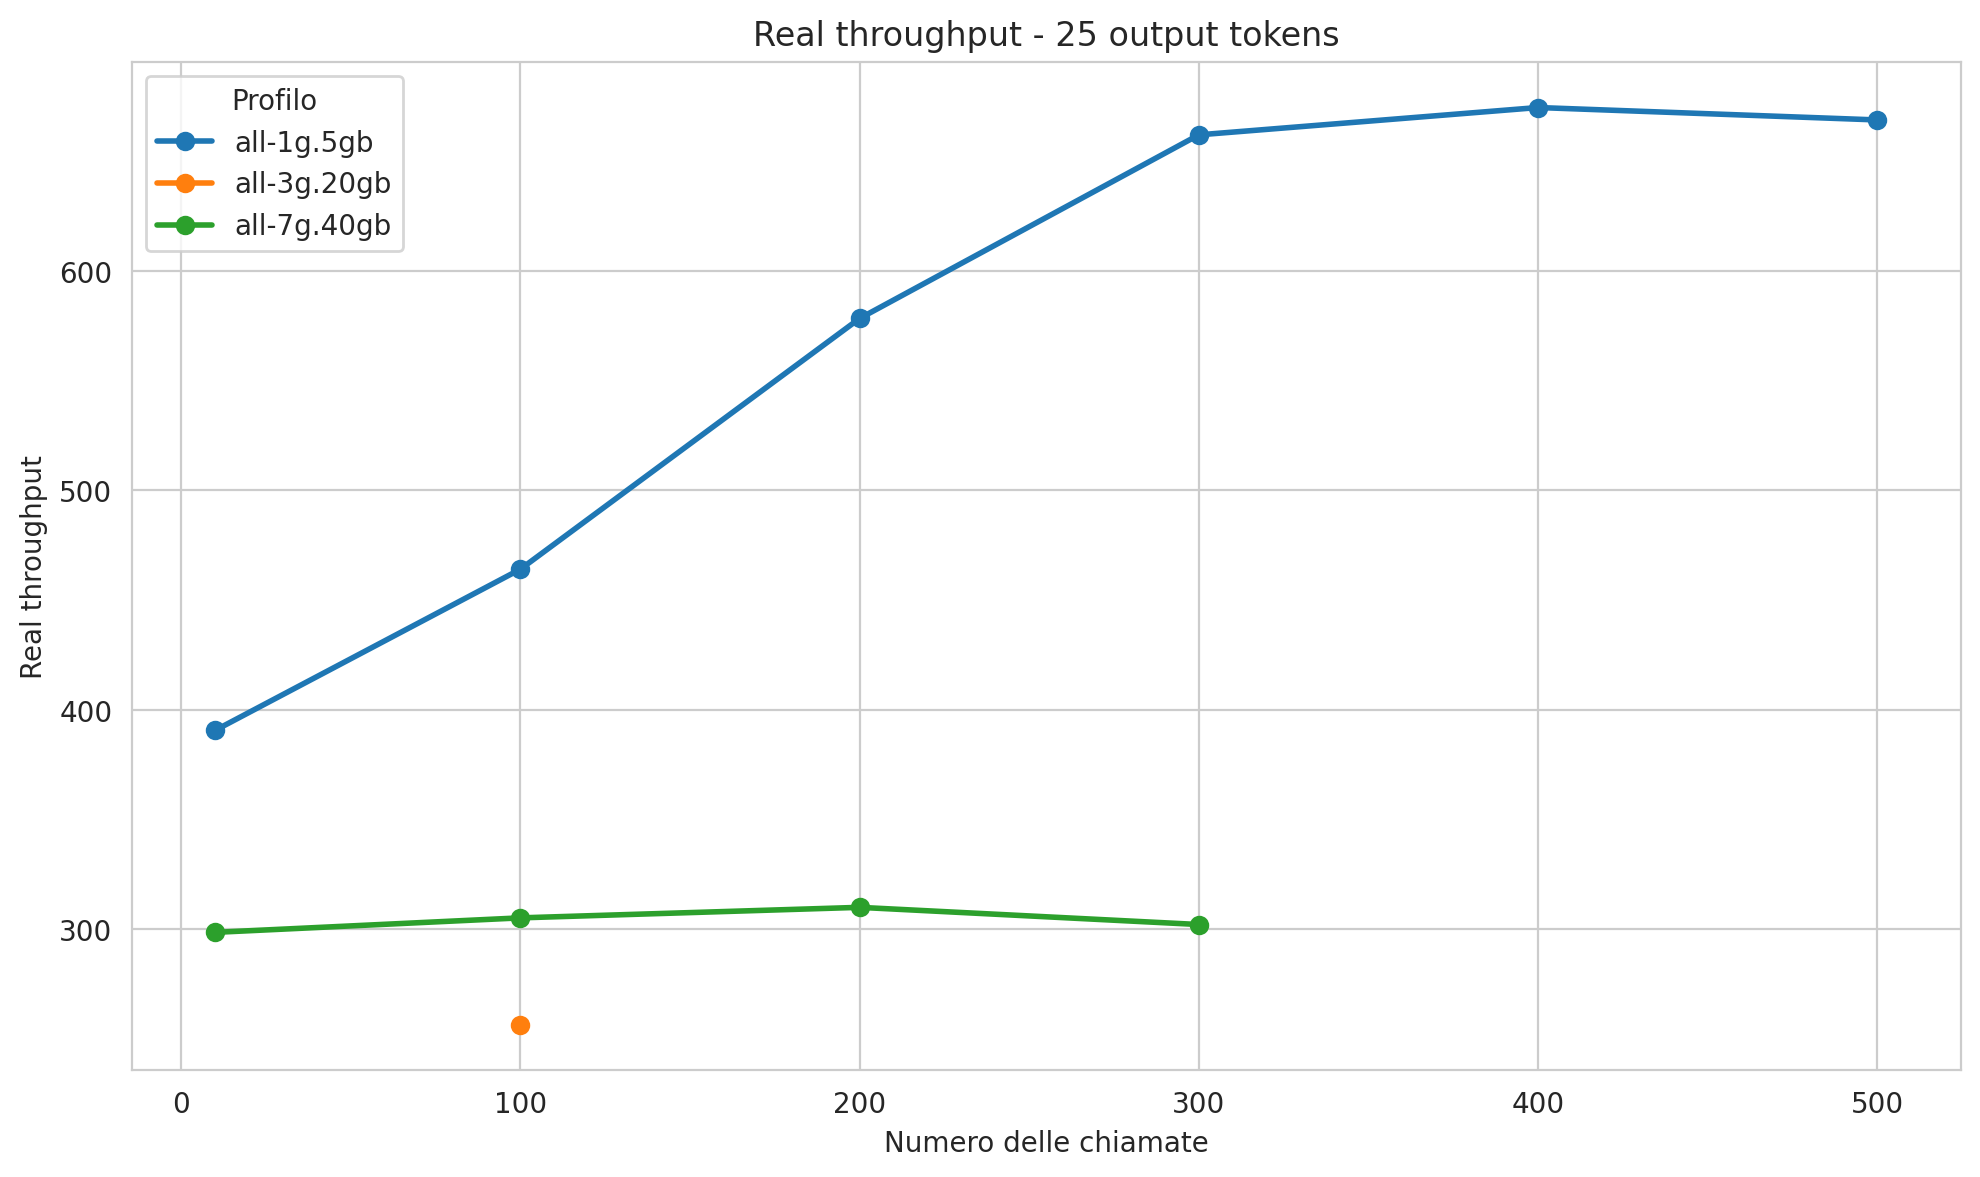
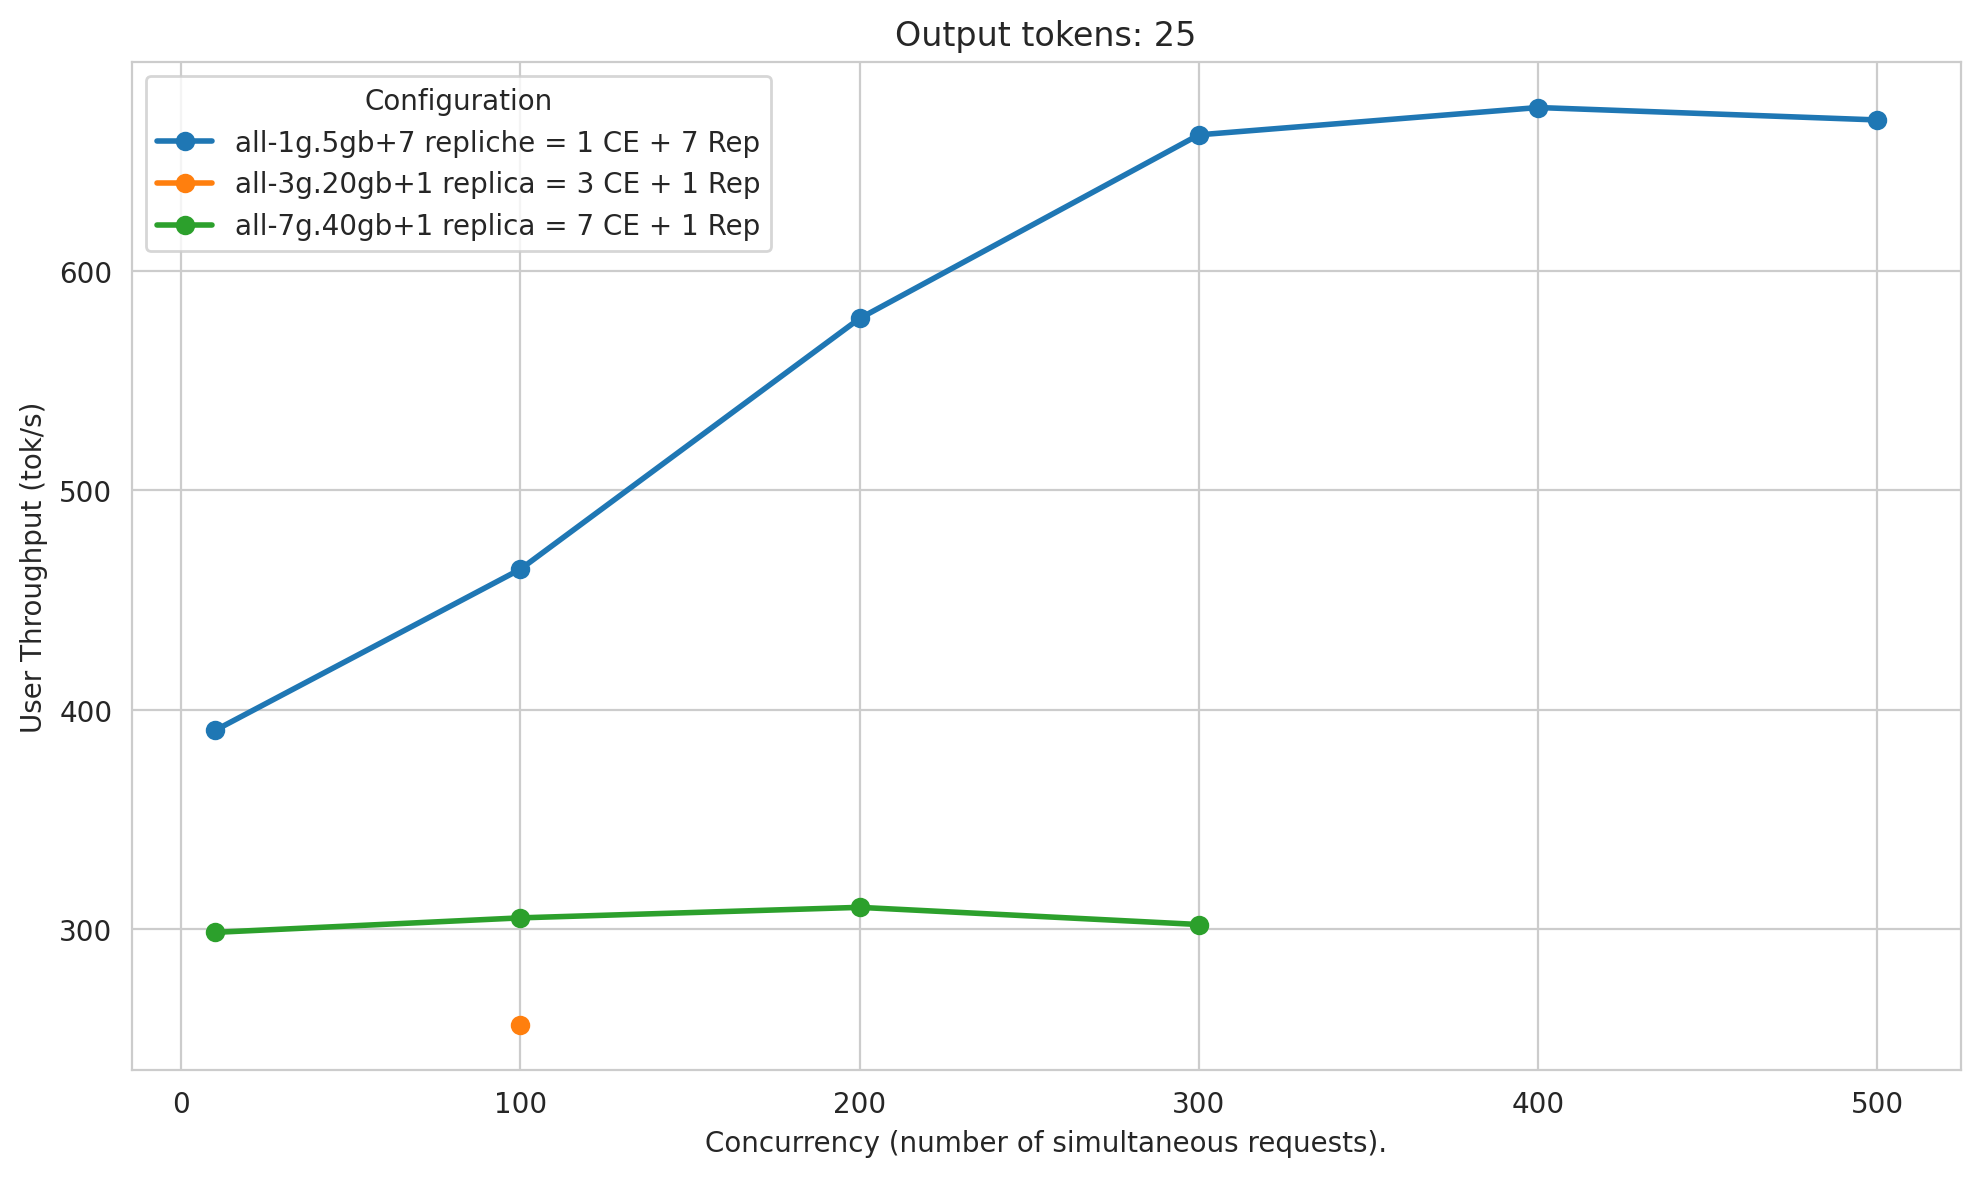
plot

diff --git a/scripts/plot_overview.py b/scripts/plot_overview.py
@@ -1,0 +1,161 @@
+from __future__ import annotations
+
+from math import ceil
+from pathlib import Path
+import re
+
+import matplotlib.pyplot as plt
+from matplotlib.cm import ScalarMappable
+import pandas as pd
+import seaborn as sns
+from matplotlib import colormaps
+from matplotlib.colors import Normalize
+from mpl_toolkits.mplot3d import Axes3D  # noqa: F401
+
+
+BASE_DIR = Path(__file__).resolve().parent
+INPUT_CSV = BASE_DIR / "results" / "results_table.csv"
+OUTPUT_DIR = BASE_DIR / "results" / "plots"
+OUTPUT_FILE = OUTPUT_DIR / "throughput_overview.png"
+
+
+def format_configuration_label(mig_config: str, ollama_replicas: int) -> str:
+	match = re.search(r"(\d+)g", mig_config)
+	ce_count = match.group(1) if match else mig_config
+	replica_word = "replica" if ollama_replicas == 1 else "repliche"
+	return f"{mig_config} + {ollama_replicas} {replica_word} = {ce_count} CE + {ollama_replicas} Rep"
+
+
+def load_results() -> pd.DataFrame:
+	df = pd.read_csv(INPUT_CSV)
+
+	required_columns = {
+		"MIG config",
+		"repliche Ollama",
+		"concorrenza",
+		"token output",
+		"Throughput REAL",
+	}
+	missing_columns = required_columns - set(df.columns)
+	if missing_columns:
+		missing = ", ".join(sorted(missing_columns))
+		raise ValueError(f"Missing required columns in {INPUT_CSV}: {missing}")
+
+	return df
+
+
+def normalize_results(df: pd.DataFrame) -> pd.DataFrame:
+	normalized = df.copy()
+	normalized["repliche Ollama"] = pd.to_numeric(normalized["repliche Ollama"], errors="coerce")
+	normalized["concorrenza"] = pd.to_numeric(normalized["concorrenza"], errors="coerce")
+	normalized["token output"] = pd.to_numeric(normalized["token output"], errors="coerce")
+	normalized["Throughput REAL"] = pd.to_numeric(normalized["Throughput REAL"], errors="coerce")
+	normalized = normalized.dropna(subset=["MIG config", "repliche Ollama", "concorrenza", "token output", "Throughput REAL"])
+	normalized["repliche Ollama"] = normalized["repliche Ollama"].astype(int)
+	normalized["concorrenza"] = normalized["concorrenza"].astype(int)
+	normalized["token output"] = normalized["token output"].astype(int)
+	return normalized
+
+
+def build_configuration_order(df: pd.DataFrame) -> pd.DataFrame:
+	return df[["MIG config", "repliche Ollama"]].drop_duplicates().sort_values([
+		"MIG config",
+		"repliche Ollama",
+	])
+
+
+def plot_overview(df: pd.DataFrame) -> Path:
+	if df.empty:
+		raise ValueError(f"No rows found in {INPUT_CSV}")
+
+	configurations = build_configuration_order(df)
+	num_configs = len(configurations)
+	if num_configs == 0:
+		raise ValueError("No configurations found in the results table")
+
+	n_cols = min(2, num_configs)
+	n_rows = ceil(num_configs / n_cols)
+
+	fig, axes = plt.subplots(
+		n_rows,
+		n_cols,
+		figsize=(7.5 * n_cols, 4.5 * n_rows),
+		sharex=True,
+		sharey=True,
+		constrained_layout=False,
+		subplot_kw={"projection": "3d"},
+	)
+	axes_list = axes.flatten() if hasattr(axes, "flatten") else [axes]
+
+	global_min = df["Throughput REAL"].min()
+	global_max = df["Throughput REAL"].max()
+	normalizer = Normalize(vmin=global_min, vmax=global_max)
+	color_map = colormaps["viridis"]
+	bar_width = 0.8
+	bar_depth = 0.8
+
+	for axis, (_, config_row) in zip(axes_list, configurations.iterrows()):
+		mig_config = config_row["MIG config"]
+		replicas = int(config_row["repliche Ollama"])
+		config_df = df[
+			(df["MIG config"] == mig_config) & (df["repliche Ollama"] == replicas)
+		]
+		config_df = config_df.sort_values(["concorrenza", "token output"])
+
+		x_positions = config_df["concorrenza"].to_numpy(dtype=float)
+		y_positions = config_df["token output"].to_numpy(dtype=float)
+		heights = config_df["Throughput REAL"].to_numpy(dtype=float)
+		colors = color_map(normalizer(heights))
+
+		axis.bar3d(
+			x_positions - bar_width / 2,
+			y_positions - bar_depth / 2,
+			0,
+			bar_width,
+			bar_depth,
+			heights,
+			color=colors,
+			shade=True,
+			alpha=0.95,
+			zsort="average",
+		)
+		axis.set_title(format_configuration_label(mig_config, replicas))
+		axis.set_xlabel("Concurrency")
+		axis.set_ylabel("Output tokens")
+		axis.set_zlabel("User Throughput (tok/s)")
+		axis.view_init(elev=24, azim=-60)
+		axis.tick_params(axis="x", rotation=0)
+		axis.tick_params(axis="y", rotation=0)
+		axis.set_zlim(global_min * 0.95, global_max * 1.05)
+
+	for axis in axes_list[num_configs:]:
+		axis.set_visible(False)
+
+	fig.supxlabel("Concurrency (number of simultaneous requests).")
+	fig.supylabel("Output tokens")
+	fig.suptitle("User Throughput (tok/s) overview", y=0.98)
+
+	if num_configs > 0:
+		colorbar = fig.colorbar(
+			ScalarMappable(norm=normalizer, cmap=color_map),
+			ax=axes_list[:num_configs],
+			shrink=0.9,
+			pad=0.02,
+		)
+		colorbar.set_label("User Throughput (tok/s)")
+
+	fig.subplots_adjust(left=0.08, right=0.88, bottom=0.09, top=0.90, wspace=0.20, hspace=0.32)
+	OUTPUT_DIR.mkdir(parents=True, exist_ok=True)
+	fig.savefig(OUTPUT_FILE, dpi=200, bbox_inches="tight")
+	plt.close(fig)
+	return OUTPUT_FILE
+
+
+def main() -> None:
+	results = normalize_results(load_results())
+	output = plot_overview(results)
+	print(f"Saved plot to {output}")
+
+
+if __name__ == "__main__":
+	main()

diff --git a/scripts/plot.py b/scripts/plot.py
@@ -1,4 +1,5 @@
 from pathlib import Path
+import re
 
 import matplotlib.pyplot as plt
 import pandas as pd
@@ -10,11 +11,19 @@ INPUT_CSV = BASE_DIR / "results" / "results_table.csv"
 OUTPUT_DIR = BASE_DIR / "results" / "plots"
 
 
+def format_configuration_label(mig_config: str, ollama_replicas: int) -> str:
+	match = re.search(r"(\d+)g", mig_config)
+	ce_count = match.group(1) if match else mig_config
+	replica_word = "replica" if ollama_replicas == 1 else "repliche"
+	return f"{mig_config}+{ollama_replicas} {replica_word} = {ce_count} CE + {ollama_replicas} Rep"
+
+
 def load_results() -> pd.DataFrame:
 	df = pd.read_csv(INPUT_CSV)
 
 	required_columns = {
 		"MIG config",
+		"repliche Ollama",
 		"concorrenza",
 		"token output",
 		"Throughput REAL",
@@ -28,36 +37,43 @@ def load_results() -> pd.DataFrame:
 
 
 def plot_throughput(df: pd.DataFrame, token_output: int) -> Path:
-	filtered = df[df["token output"] == token_output].copy()
+	token_output_values = pd.to_numeric(df["token output"], errors="coerce")
+	filtered = df[token_output_values == token_output].copy()
 	if filtered.empty:
 		raise ValueError(f"No rows found for token output={token_output}")
 
+	filtered["repliche Ollama"] = pd.to_numeric(filtered["repliche Ollama"], errors="coerce")
 	filtered["concorrenza"] = pd.to_numeric(filtered["concorrenza"], errors="coerce")
 	filtered["Throughput REAL"] = pd.to_numeric(filtered["Throughput REAL"], errors="coerce")
-	filtered = filtered.dropna(subset=["concorrenza", "Throughput REAL", "MIG config"])
+	filtered = filtered.dropna(subset=["repliche Ollama", "concorrenza", "Throughput REAL", "MIG config"])
 
 	if filtered.empty:
 		raise ValueError(f"No plottable rows found for token output={token_output}")
 
-	profiles = sorted(filtered["MIG config"].unique())
+	filtered["repliche Ollama"] = filtered["repliche Ollama"].astype(int)
+	series = filtered[["MIG config", "repliche Ollama"]].drop_duplicates().sort_values(["MIG config", "repliche Ollama"])
 
 	plt.figure(figsize=(10, 6))
 	sns.set_style("whitegrid")
 
-	for profile in profiles:
-		profile_df = filtered[filtered["MIG config"] == profile].sort_values("concorrenza")
+	for _, row in series.iterrows():
+		profile = row["MIG config"]
+		replicas = int(row["repliche Ollama"])
+		profile_df = filtered[
+			(filtered["MIG config"] == profile) & (filtered["repliche Ollama"] == replicas)
+		].sort_values("concorrenza")
 		plt.plot(
 			profile_df["concorrenza"],
 			profile_df["Throughput REAL"],
 			marker="o",
 			linewidth=2,
-			label=profile,
+			label=format_configuration_label(profile, replicas),
 		)
 
-	plt.title(f"Real throughput - {token_output} output tokens")
-	plt.xlabel("Numero delle chiamate")
-	plt.ylabel("Real throughput")
-	plt.legend(title="Profilo", frameon=True)
+	plt.title(f"Output tokens: {token_output}")
+	plt.xlabel("Concurrency (number of simultaneous requests).")
+	plt.ylabel("User Throughput (tok/s)")
+	plt.legend(title="Configuration", frameon=True)
 	plt.tight_layout()
 
 	OUTPUT_DIR.mkdir(parents=True, exist_ok=True)
@@ -69,7 +85,8 @@ def plot_throughput(df: pd.DataFrame, token_output: int) -> Path:
 
 def main() -> None:
 	df = load_results()
-	outputs = [plot_throughput(df, 25)]
+	token_outputs = sorted(pd.to_numeric(df["token output"], errors="coerce").dropna().astype(int).unique())
+	outputs = [plot_throughput(df, token_output) for token_output in token_outputs]
 
 	for output in outputs:
 		print(f"Saved plot to {output}")